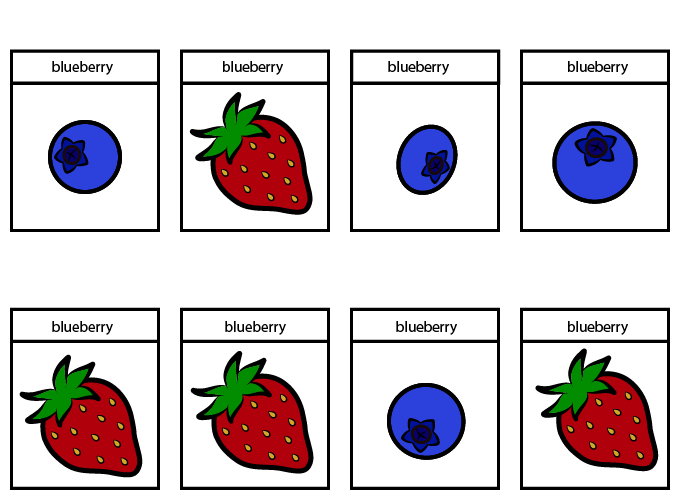
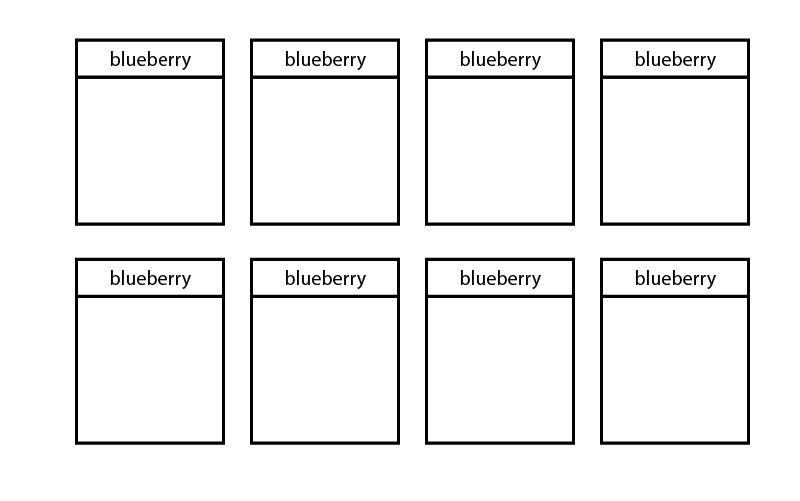
working on multi style text

diff --git a/View/allSlides.js b/View/allSlides.js
@@ -4,6 +4,7 @@ import { Net } from "../Model/net.js"
 import {fruits, fruits_small, fruits_test} from "../Model/data.js"
 import {Graph} from "./Graph.js"
 import {small, medium, typewriter, typewriter_large} from "./textstyles.js"
+//import {MultiStyleText} from "./../pixi/pixi-multistyle-text.js"
 
 
 // HOME
@@ -33,14 +34,14 @@ export const SlideInstruct = new Slide();
 
 // INTRO 1
 export const SlideIntro1 = new Slide();
-var textIntro = [
+var textIntro1 = [
     ["As humans, we take our ability to recognize objects for granted. ", 50, 100],
     ["Neural networks are a type of machine learning based on the human brain." 
     + '\n'+"Using a neural network, a computer can learn to recognize and classify data." , 100, 200],
     ["This type of neural network is called a perceptron." , 200,250]       
 ];
 
-SlideIntro1.drawText(textIntro);
+SlideIntro1.drawText(textIntro1);
 SlideIntro1.drawTextButtons();
 
 // INTRO 2
@@ -50,32 +51,52 @@ var examples=new PIXI.Sprite(PIXI.Texture.from('images/examples.png'));
 examples.anchor.set(0.5);
 examples.isSprite=true;
 examples.x=850;
-examples.y=350;
+examples.y=325;
 
 var examples_labels=new PIXI.Sprite(PIXI.Texture.from('images/examples_labels.png'));
 examples_labels.isSprite=true;
 examples_labels.anchor.set(0.5);
 examples_labels.x=850;
-examples_labels.y=350;
+examples_labels.y=325;
 
-var textIntro = [
+var textIntro2 = [
     ["So how does it work?", 50, 100],
     ["In order to train our network,"+'\n'+" we need to give it some examples"+'\n'+"of data we want to classify." , 50, 170],
     examples,
     ["Using our big human brains,"+'\n'+" we label these examples with the right answers" , 50, 250],
-    examples_labels,
-    ["some nn can classify images using their pixels" , 50, 250],
-    ["for our nn, we are going to assign some attributes that we think will be important for classifying" , 50, 250],
-    //examples_text_attributes
-    ["length is the object's length, while roundness is a score from 0-1 of how round the object looks",100,100],
-    ["this is called data preprocessing",100,200]
+    examples_labels
+];
 
-
+var textIntro2_test = [
+    [ ["So"], ["how"], ["does it work"], 50, 100],
+    [ ["we train with examples"], [100, 150] ],
 
 ];
 
-SlideIntro2.drawText(textIntro);
+SlideIntro2.drawText_test(textIntro2_test);
 SlideIntro2.drawTextButtons();
+SlideHome.slideContainer.addChild(opener);        
+
+
+//Change name eventually
+// INTRO 3a
+export const SlideIntro3a = new Slide();
+var i3_example=new PIXI.Sprite(PIXI.Texture.from('images/example1.png'));
+    i3_example.isSprite=true;
+ //   i3_example.scale.set(0.8);
+    i3_example.anchor.set(0.8);
+    i3_example.x=850;
+    i3_example.y=425;
+var textIntro3a = [
+    i3_example,
+    ["some nn can classify images using their pixels" , 50, 250],
+    ["for our nn, we are going to assign some attributes that we think will be important for classifying" , 50, 250],
+    ["length is the object's length, while roundness is a score from 0-1 of how round the object looks",100,100],
+    ["this is called data preprocessing",100,200]
+];
+
+SlideIntro3a.drawText(textIntro3a);
+SlideIntro3a.drawTextButtons();
 
 // INTRO 3
 export const SlideIntro3 = new Slide();
@@ -95,19 +116,25 @@ var textIntro3 = [
 SlideIntro3.drawText(textIntro3);
 SlideIntro3.drawTextButtons();
 
+
 //INTRO 4
 export const SlideIntro4 = new Slide();
-var si4test1=new PIXI.Sprite(PIXI.Texture.from('images/card.png'));
-si4test1.scale.set(0.8);
-    si4test1.isSprite=true;
-    si4test1.x=100;
-    si4test1.y=100;
+var examples_unlabeled=new PIXI.Sprite(PIXI.Texture.from('images/examples_unlabeled.png'));
+    examples_unlabeled.anchor.set(0.5);
+    examples_unlabeled.isSprite=true;
+    examples_unlabeled.x=850;
+    examples_unlabeled.y=300;
 
-
+var examples_unlabeled2=new PIXI.Sprite(PIXI.Texture.from('images/examples_unlabeled2.png'));
+    examples_unlabeled2.anchor.set(0.5);
+    examples_unlabeled2.isSprite=true;
+    examples_unlabeled2.x=850;
+    examples_unlabeled2.y=300;
 var textIntro4 = [
+    examples_unlabeled,
     ["once our net is finished learning, we'll give it some unlabeled data"+'\n'+
     "to see how well it works.", 50, 50],
-    si4test1
+    examples_unlabeled2
 ];
 SlideIntro4.drawText(textIntro4);
 SlideIntro4.drawTextButtons();

diff --git a/View/Slide.js b/View/Slide.js
@@ -670,7 +670,32 @@ export class Slide{
       this.textContainer.getChildAt(0).visible=true;
     }
 
+/*
+    var textIntro2 = [
+        ["So how does it work?", 50, 100],
+        ["In order to train our network,"+'\n'+" we need to give it some examples"+'\n'+"of data we want to classify." , 50, 170],
+        examples,
+        ["Using our big human brains,"+'\n'+" we label these examples with the right answers" , 50, 250],
+        examples_labels
+    ];
+*/
 
+/*
+    var textIntro2 = [
+        [ ["So"] ["how"] ["does it work"], 50, 100],
+        [ ["we train with examples"], 100, 150 ],
+
+    ];
+*/
+    drawText_test(text){
+        for (var i =0; i<text.length; i++){
+            var textLineContainer= new PIXI.Container();
+            textLineContainer.x=text[i][text[i].length];
+            console.log(textLineContainer.x);
+        }
+    }
+
+      /*
     drawCard(small,cardheight, cardwidth, cardx, cardy, datatype, datalabels, expected, image){
         var card = new PIXI.Sprite(PIXI.Texture.from('images/card.png'));
             card.anchor.set(0.5)
@@ -710,5 +735,5 @@ export class Slide{
         var img = new PIXI.Sprite(PIXI.Texture.from(image));
             img.anchor.set(0.5);
         card.addChild(img);
-    }
+    }*/
 }

diff --git a/View/View.js b/View/View.js
@@ -6,6 +6,7 @@ import {SlideHome,
     SlideIntro1,
     SlideIntro2,
     SlideIntro3,
+    SlideIntro3a,
     SlideIntro4,
     SlideData2,
     SlideData3,
@@ -52,7 +53,8 @@ export class View{
 
         //add premade slides
         this.slideList = [];
-        this.slideList.push(SlideHome,SlideInstruct,SlideIntro1,SlideIntro2,SlideIntro3,SlideIntro4,SlideData2,SlideSandbox,SlideGraphTest);
+        this.slideList.push(SlideHome,SlideInstruct,SlideIntro1,SlideIntro2,SlideIntro3,
+                            SlideIntro3a,SlideIntro4,SlideData2,SlideSandbox,SlideGraphTest);
 
         this.currentSlide=3;
 

diff --git a/View/Text.js b/View/Text.js
@@ -1,0 +1,4 @@
+export class Text extends PIXI.Sprite{
+
+    
+}
